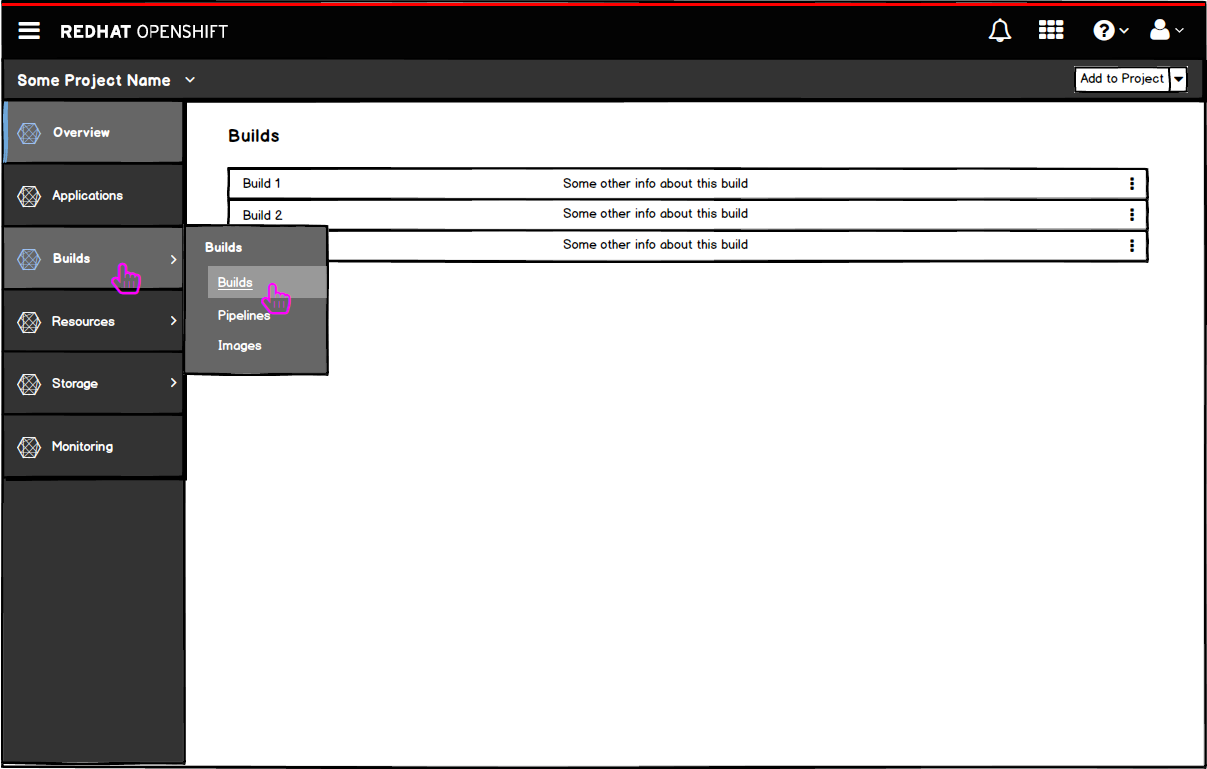
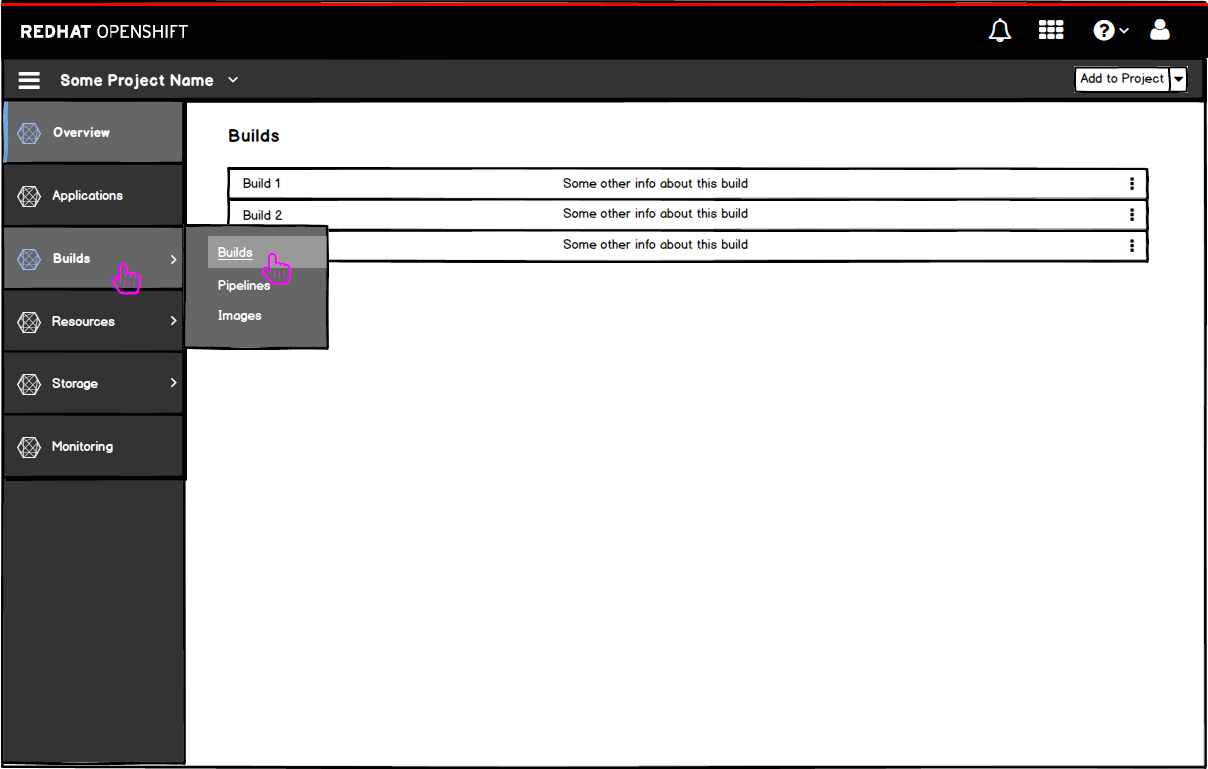
Updating based on comments and adding high fidelity images

diff --git a/web-console/4-patterns/navigation.md b/web-console/4-patterns/navigation.md
@@ -7,8 +7,8 @@
 
 ### Inside the Console
 ![Navigation 1](img/NAVIGATION-3.png)
-- Once a user navigates to a specific project inside the console, the hamburger menu will show up in the top left corner of the masthead and a second horizontal bar will appear below the masthead.
-  - This bar will hold (1) the project switcher, and (2) the "quick add" feature that allows users to navigate back to the catalog or quickly add a catalog item to their project.
+- Once a user navigates to a specific project inside the console, a second horizontal bar will appear below the masthead and the hamburger menu will show up in the left corner of this second bar.
+  - This bar will also hold (1) the project switcher, and (2) the "quick add" feature that allows users to navigate back to the catalog or quickly add a catalog item to their project.
   - Visit the [Project Details](http://openshift.github.io/openshift-origin-design/web-console/3-project-details/overview) page for details on these features.
 - Below the two horizontal bars, a vertical navigation will display the primary menu options.
 - The active page will be indicated visually by highlighting that primary navigation item.
@@ -37,14 +37,16 @@
 - **Note:** the logout option is pulled out from the user menu in this case.
 - For secondary and tertiary levels of navigation, the left navigation panel should be replaced, as described in the Responsive State section of the [Vertical Navigation](http://www.patternfly.org/pattern-library/navigation/vertical-navigation/#/design) pattern.
 
-![Navigation 1](img/NAVIGATION-1C.png)
-
-- Selecting the Product Launcher option will load the secondary navigation with all product options that are available.
-
-![Navigation 1](img/NAVIGATION-1B.png)
+![Navigation 1](img/Nav-help-1.png)
+![Navigation 1](img/Nav-help-2.png)
+![Navigation 1](img/Nav-help-3.png)
 
 - Selecting the Help option will load the secondary navigation with all available resources and help links.
 - The resource links that are initially shown on the landing page project panel should be included in this help menu and would load a tertiary level of navigation.
+
+![Navigation 1](img/NAVIGATION-1C.png)
+
+- Selecting the Product Launcher option will load the secondary navigation with all product options that are available.
 
 ![Navigation 1](img/NAVIGATION-1.png)
 
@@ -54,7 +56,7 @@
 
 ### Inside the Console
 
-![Navigation 1](img/NAVIGATION-2.png)
+![Navigation 1](img/NAVIGATION-2B-New.png)
 
 - Inside the console, the primary navigation options display in a vertical nav so the order of items inside the hamburger menu will change here.
 - The hamburger menu will scroll if needed.
@@ -70,7 +72,9 @@
   - [username]
   - Logout (no icon)
 
-![Navigation 1](img/NAVIGATION-2B.png)
+![Navigation 1](img/NAVIGATION-2-New.png)
+
+![Navigation 1](img/NAVIGATION-2C-New.png)
 - The project name option will allow users to navigate to a different project or go back to the full projects page.
 
 ![Navigation 1](img/NAVIGATION-2C.png)
